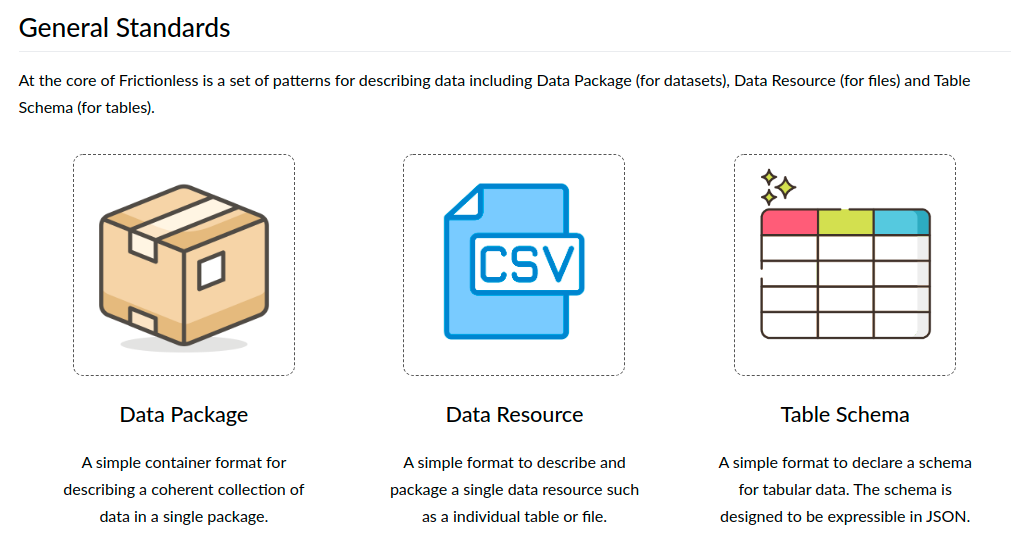
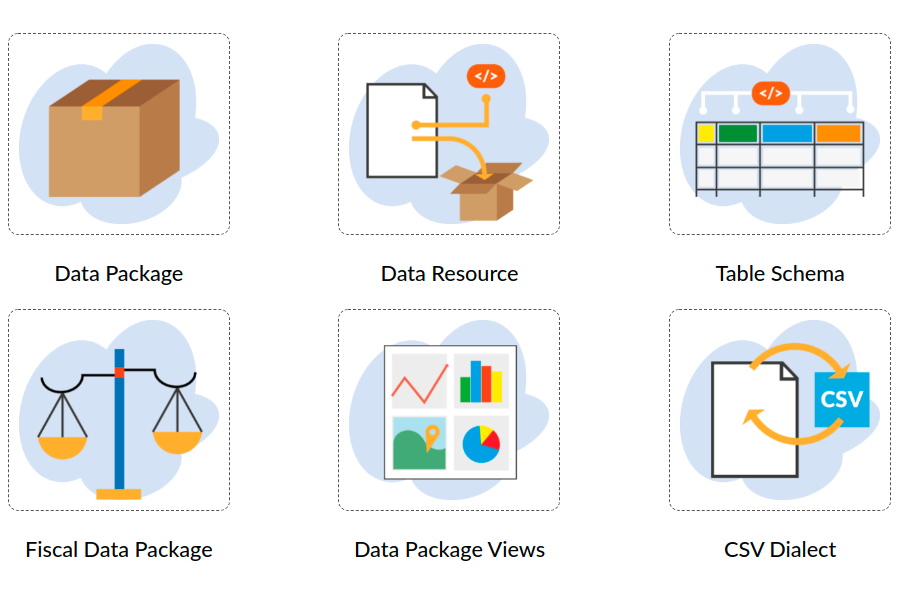
Improve software and standards pages (#208)
* Reworked the software page

* Reworked the standards page

* Updated Livemark picture; home page screenshots

* Updated standards guide's headings

* edits text on software page

* Minor edits

* Added Datahub CLI

* Improved ordering

* Brighter libraries image

* Updated components description

* edits software text and adds pic

* Minor edits

* Match software/standards styles

* Center the picture

* Revert "Center the picture"

This reverts commit a262ac05bef7368828143e203df64c969601cb37.

diff --git a/site/software/README.md b/site/software/README.md
@@ -12,9 +12,9 @@ The Frictionless Data project provides a rich set of open source software for wo
 This document is an overview of the Frictionless Software - for more in-depth information, please click on one of the software items below and you will be redirected to the corresponding documentation site.
 :::
 
-## Code and Software Libraries
+## Software Toolkit
 
-The Frictionless Data project provides various frameworks and libraries for interacting with data. If you want to use or write Frictionless code, this section is for you.
+Here is a list of our core software:
 
 <div class="main-section black-text">
 <div class="features flex flex-row flex-wrap py-4">
@@ -26,7 +26,7 @@ The Frictionless Data project provides various frameworks and libraries for inte
      <img src="/img/software/framework.png" style="width: 200px; border:dashed 1px #555; padding: 10px; border-radius: 10px;" />
      <h3>Frictionless Framework</h3>
    </a>
-   <p>A framework to describe, extract, validate, and transform tabular data in <a href="https://framework.frictionlessdata.io/" target="_blank">Python</a> or <a href="https://github.com/frictionlessdata/frictionless-js" target="_blank">JavaScript</a>.</p>
+   <p>A framework to describe, extract, validate, and transform tabular data in <a href="https://framework.frictionlessdata.io/" target="_blank">CLI</a>, <a href="https://framework.frictionlessdata.io/" target="_blank">Python</a>, or <a href="https://github.com/frictionlessdata/frictionless-js" target="_blank">JavaScript</a>.</p>
  </div>
 </div>
 
@@ -48,28 +48,7 @@ The Frictionless Data project provides various frameworks and libraries for inte
      <img src="/img/software/components.png" style="width: 200px; border:dashed 1px #555; padding: 10px; border-radius: 10px;" />
      <h3>Frictionless Components</h3>
    </a>
-   <p>A set of React components that are quick to integrate into your application for working with data and metadata.</p>
- </div>
-</div>
-
-</div>
-</div>
-
-## Applications and Platforms
-
-The Frictionless Data project provides data tools and applications to work with data. If you prefer working with data using an interface or service, this section is for you.
-
-<div class="main-section black-text">
-<div class="features flex flex-row flex-wrap py-4">
-
-<!-- DataHub.io -->
-<div class="w-full md:w-1/3 feature flex justify-center">
- <div class="px-8 text-center">
-   <a href="https://datahub.io/" target="_blank">
-     <img src="/img/software/datahub.png" style="width: 200px; border:dashed 1px #555; padding: 10px; border-radius: 10px;" />
-     <h3>DataHub.io</h3>
-   </a>
-   <p>A SaaS platform built on Frictionless Data that allows discovering, publishing, and sharing data.</p>
+   <p>A set of React components for data and metadata that are quick to integrate into your application.</p>
  </div>
 </div>
 
@@ -80,20 +59,58 @@ The Frictionless Data project provides data tools and applications to work with 
      <img src="/img/software/repository.png" style="width: 200px; border:dashed 1px #555; padding: 10px; border-radius: 10px;" />
      <h3>Frictionless Repository</h3>
    </a>
-   <p>A Github Action allowing to validate tabular data on every commit to the repository.</p>
+   <p>A Github Action allowing you to validate tabular data on every commit to your repository.</p>
  </div>
 </div>
 
-<!-- Fricionless Application -->
-<div class="w-full md:w-1/3 feature flex justify-center" style="opacity:0.33">
+<!-- Livemark -->
+<div class="w-full md:w-1/3 feature flex justify-center">
  <div class="px-8 text-center">
-   <a href="https://application.frictionlessdata.io" target="_blank">
-     <img src="/img/software/coming-soon.png" style="width: 200px; border:dashed 1px #555; padding: 10px; border-radius: 10px;" />
-     <h3>Frictionless Application</h3>
+   <a href="https://livemark.frictionlessdata.io" target="_blank">
+     <img src="/img/software/livemark.png" style="width: 200px; border:dashed 1px #555; padding: 10px; border-radius: 10px;" />
+     <h3>Livemark</h3>
    </a>
-   <p>A visual application to describe, extract, validate, and transform tabular data.</p>
+   <p> A static site generator that extends Markdown with interactive charts, tables, scripts, and more.</p>
+ </div>
+</div>
+
+<!-- Datahub -->
+<div class="w-full md:w-1/3 feature flex justify-center">
+ <div class="px-8 text-center">
+   <a href="https://datahub.io/" target="_blank">
+     <img src="/img/software/datahub.png" style="width: 200px; border:dashed 1px #555; padding: 10px; border-radius: 10px;" />
+     <h3>Datahub</h3>
+   </a>
+   <p>A web platform built on Frictionless Data that allows discovering, publishing, and sharing data.</p>
  </div>
 </div>
 
 </div>
 </div>
+
+## Which software is right for me?
+
+Choosing the right tool for the job can be challenging. Here are our recommendations:
+
+### Visual Interfaces
+
+If you prefer to use a visual interface:
+
+- **Frictionless Application (coming soon):** We're working on our brand-new Frictionless Application that will be released in 2021. Until then, you can use [Data Package Creator](https://create.frictionlessdata.io/) to create and edit data packages and [Goodtables On-Demand](http://try.goodtables.io/) for data validation.
+- **Frictionless Repository:** For ensuring the quality of your data on Github, Frictionless provides [Frictionless Repository](https://repository.frictionlessdata.io/). This creates visual quality reports and validation statuses on Github everytime you commit your data.
+- **Datahub:** For discovering, publishing, and sharing data we have [Datahub](https://datahub.io/) which is built on Frictionless software. Using this software as a service, you can sign-in and find, share, and publish quality data.
+
+### Command-line Interfaces
+
+If you like to write commands in the command-line interface:
+
+- **Frictionless Framework:** For describing, extracting, validating, and transforming data, Frictionless provides the [Frictionless Framework's](https://framework.frictionlessdata.io/) command-line interface. Using the "frictionless" command you can achieve many goals without needing to write Python code.
+- **Livemark:** For data journalists and technical writers we have a project called [Livemark](https://livemark.frictionlessdata.io/). Using the "livemark" command in the CLI you can publish a website that incorporates Frictionless functions and is powered by markdown articles.
+- **Datahub:** Frictionless provides a command-line tool called [Data](https://datahub.io/docs/features/data-cli) which is an important part of the Datahub project. The "data" command is available for a JavaScript environment and it helps you to interact with data stored on Datahub.
+
+### Programming Languages
+If you want to use or write your own Frictionless code:
+
+- **Frictionless Framework:** For general data programming in Python, the [Frictionless Framework](https://framework.frictionlessdata.io/) is the way to go. You can describe, extract, validate, and transform your data. It's also possible to extend the framework by adding new validation checks, transformation steps, etc. In addition, there is a lightweight version fo the framework written in [JavaScript](https://github.com/frictionlessdata/frictionless-js).
+- **Frictionless Libraries:** For Frictionless functions in other languages like R or Java, we have [Frictionless Libraries](https://libraries.frictionlessdata.io/). Each library provides metadata validation and editing along with other low-level data operations like reading or writing tabular files.
+- **Frictionless Components:** For adding Frictionless React components into your application, we created [Frictionless Components](https://components.frictionlessdata.io/). This project lets you integrate visual elements like validation reports, workflows, or schema editors into your application.

diff --git a/site/standards/README.md b/site/standards/README.md
@@ -6,15 +6,15 @@ title: Frictionless Standards
 
 <big><strong>Lightweight yet comprehensive data specifications.</strong></big>
 
-The Frictionless Data project is built on top of the Frictionless Standards, which are a set of specifications created to standardize different aspects of working with data. For example, you can use the Standards to describe a collection of data resources or to share information about data types.
+The Frictionless Data project is built on top of the Frictionless Standards, which are a set of specifications created to standardize different aspects of working with data. For example, you can use the Standards to describe a collection of data files or to share information about data types.
 
 :::tip
 This document is an overview of the Frictionless Standards - for more in-depth information please visit [the specification site](https://specs.frictionlessdata.io/) or click on one of the standards below and you will be redirected to a corresponding specification.
 :::
 
-## General Standards
+## Standards Toolkit
 
-At the core of Frictionless is a set of patterns for describing data including Data Package (for datasets), Data Resource (for files) and Table Schema (for tables).
+At the core of Frictionless is a set of patterns for describing data including Data Package (for datasets), Data Resource (for files), Table Schema (for tables), and also domain-specific extensions.
 
 <div class="main-section black-text">
 <div class="features flex flex-row flex-wrap py-4">
@@ -26,7 +26,7 @@ At the core of Frictionless is a set of patterns for describing data including D
      <img src="/img/standards/data-package.png" style="width: 200px; border:dashed 1px #555; padding: 10px; border-radius: 10px;" />
      <h3>Data Package</h3>
    </a>
-   <p>Describe a collection of data files in a single container format called a package.</p>
+   <p>Describe a collection of data files in a single container called a package.</p>
  </div>
 </div>
 
@@ -37,7 +37,7 @@ At the core of Frictionless is a set of patterns for describing data including D
      <img src="/img/standards/data-resource.png" style="width: 200px; border:dashed 1px #555; padding: 10px; border-radius: 10px;" />
      <h3>Data Resource</h3>
    </a>
-   <p>Describe and package a single data resource such as an individual table or file.</p>
+   <p>Describe and package a single data resource such as a table or file.</p>
  </div>
 </div>
 
@@ -52,16 +52,6 @@ At the core of Frictionless is a set of patterns for describing data including D
  </div>
 </div>
 
-</div>
-</div>
-
-## Specific Standards
-
-For some specific use cases there are domain oriented specifications like the Fiscal Data Package. Also, we provide some general standard extensions like Data Package Views or CSV Dialect.
-
-<div class="main-section black-text">
-<div class="features flex flex-row flex-wrap py-4">
-
 <!-- Fiscal Data Package -->
 <div class="w-full md:w-1/3 feature flex justify-center">
  <div class="px-8 text-center">
@@ -69,7 +59,7 @@ For some specific use cases there are domain oriented specifications like the Fi
      <img src="/img/standards/fiscal-data-package.png" style="width: 200px; border:dashed 1px #555; padding: 10px; border-radius: 10px;" />
      <h3>Fiscal Data Package</h3>
    </a>
-   <p>Publishing and consume fiscal data.</p>
+   <p>Describe and publish tabular fiscal data.</p>
  </div>
 </div>
 
@@ -80,7 +70,7 @@ For some specific use cases there are domain oriented specifications like the Fi
      <img src="/img/standards/data-package-views.png" style="width: 200px; border:dashed 1px #555; padding: 10px; border-radius: 10px;" />
      <h3>Data Package Views</h3>
    </a>
-   <p>Describe views of data - leverages existing specifications like Vega.</p>
+   <p>Describe views of data by leveraging existing specifications like Vega.</p>
  </div>
 </div>
 
@@ -97,3 +87,27 @@ For some specific use cases there are domain oriented specifications like the Fi
 
 </div>
 </div>
+
+## Which standard is right for me?
+
+To help you pick a standard to use, we've categorized them according to how many files you are working with.
+
+### Collection of Files
+
+If you have more than one file:
+
+- **Data Package**: Use a [Data Package](https://specs.frictionlessdata.io/data-package/) for describing datasets of any file format. Data Package is a basic container format for describing a collection of data in a single "package". It provides a basis for convenient delivery, installation and management of datasets.
+- **Fiscal Data Package**: For fiscal data, use a [Fiscal Data Package](https://specs.frictionlessdata.io/fiscal-data-package/). This lightweight and user-oriented format is for publishing and consuming fiscal data. It concerns with how fiscal data should be packaged and providing means for publishers to best convey the meaning of the data - so it can be optimally used by consumers.
+
+### Individual File
+
+If you need to describe an individual file:
+
+- **Data Resource**: Use [Data Resource](https://specs.frictionlessdata.io/data-resource/) for describing individual files. Data Resource is a format to describe and package a single data resource of any file format, such as an individual table or file. It can also be extended for specific use cases.
+- **Tabular Data Resource**: For tabular data, use the Data Resource extension called [Tabular Data Resource](https://specs.frictionlessdata.io/tabular-data-resource/). Tabular Data Resource describes a single *tabular* data resource such as a CSV file. It includes support for metadata and schemas to describe the data content and structure.
+- **Table Schema**: To describe only the schema of a tabular data file, use [Table Schema](https://specs.frictionlessdata.io/table-schema/). Table Schema is a format to declare a schema for tabular data. The schema is designed to be expressible in JSON. You can have a schema as independent metadata or use it with a Tabular Data Resource.
+- **CSV Dialect**: To specify the CSV dialect within a schema, use [CSV Dialect](https://specs.frictionlessdata.io/csv-dialect/). This defines a format to describe the various dialects of CSV files in a language agnostic manner. This is important because CSV files might be published in different forms, making it harder to read the data without errors. CSV Dialect can be used with a Tabular Data Resource to provide additional information.
+
+<a href="https://specs.frictionlessdata.io/" target="_blank">
+  <img src="/img/standards/specs-diagram.png" />
+</a>

diff --git a/site/README.md b/site/README.md
@@ -24,7 +24,7 @@ features:
         <div class="text-center px-8">
           <a href="/software/" class="text-xl text-black hover:underline">
             <h3>Frictionless Software</h3>
-            <img style="border:dashed 1px #555; padding: 10px; border-radius: 10px;" class="mx-auto" src="/img/home/software_crop.png" height="175"></img>
+            <img style="border:dashed 1px #555; padding: 10px; border-radius: 10px;" class="mx-auto" src="/img/home/software.png"></img>
         </a>
           <p class="text-lg font-light pt-4">The Frictionless Data projects provides a rich set of open source tools and software in many programming languages for working with data.</p>
           <a href="/software/" class="text-base hover:underline">Read more &raquo;</a>
@@ -34,7 +34,7 @@ features:
         <div class="text-center px-8">
           <a href="/standards/" class="text-xl text-black hover:underline">
             <h3>Frictionless Standards</h3>
-            <img style="border:dashed 1px #555; padding: 10px; border-radius: 10px;" class="mx-auto" src="/img/home/standards_crop.png" height="175"></img>
+            <img style="border:dashed 1px #555; padding: 10px; border-radius: 10px;" class="mx-auto" src="/img/home/standards.png"></img>
         </a>
           <p class="text-lg font-light pt-4">The Frictionless Data project is built on top of the Frictionless Standards: a set of specifications that standardize working with various types of data.</p>
           <a href="/standards/" class="text-base hover:underline">Read more &raquo;</a>
